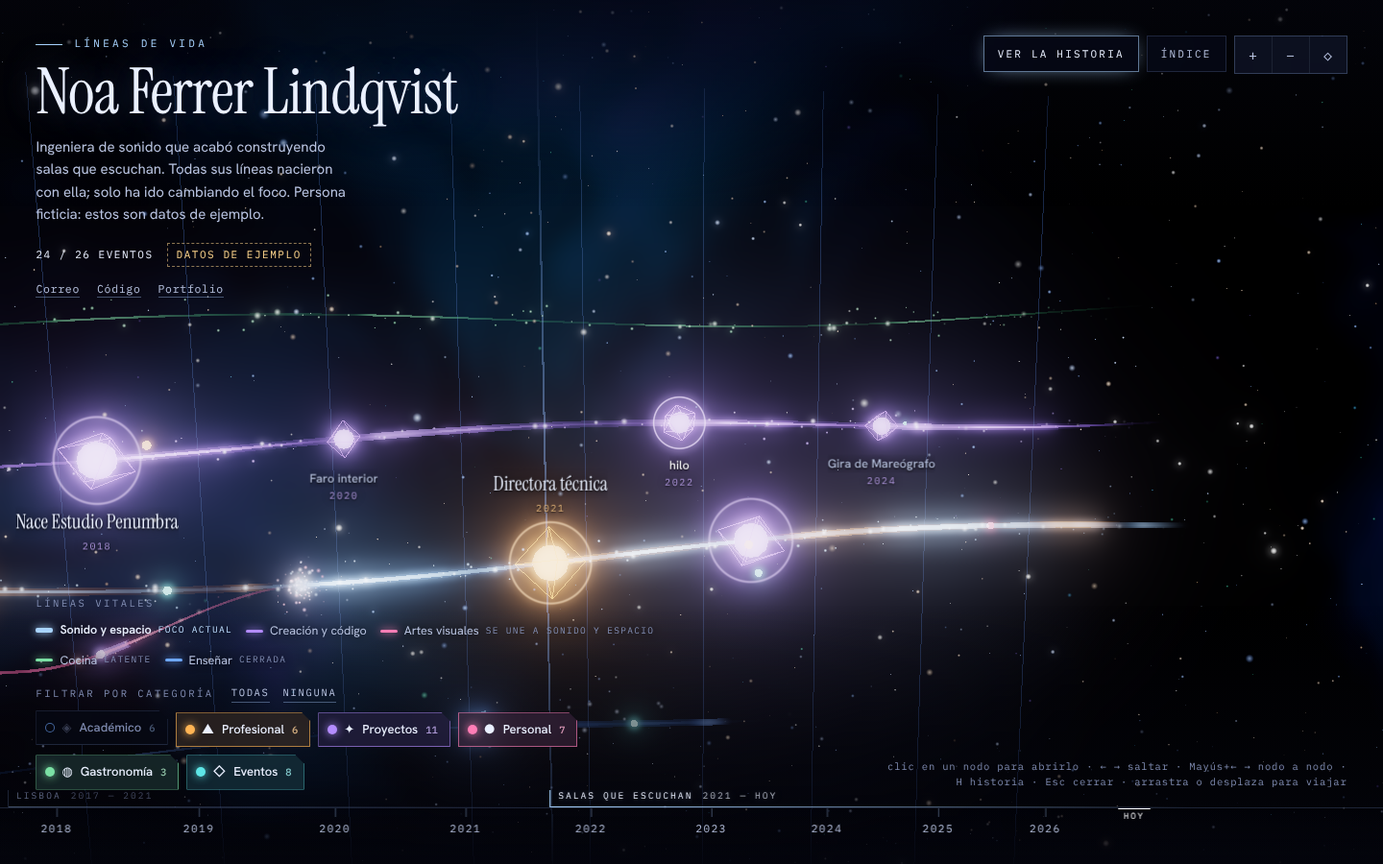
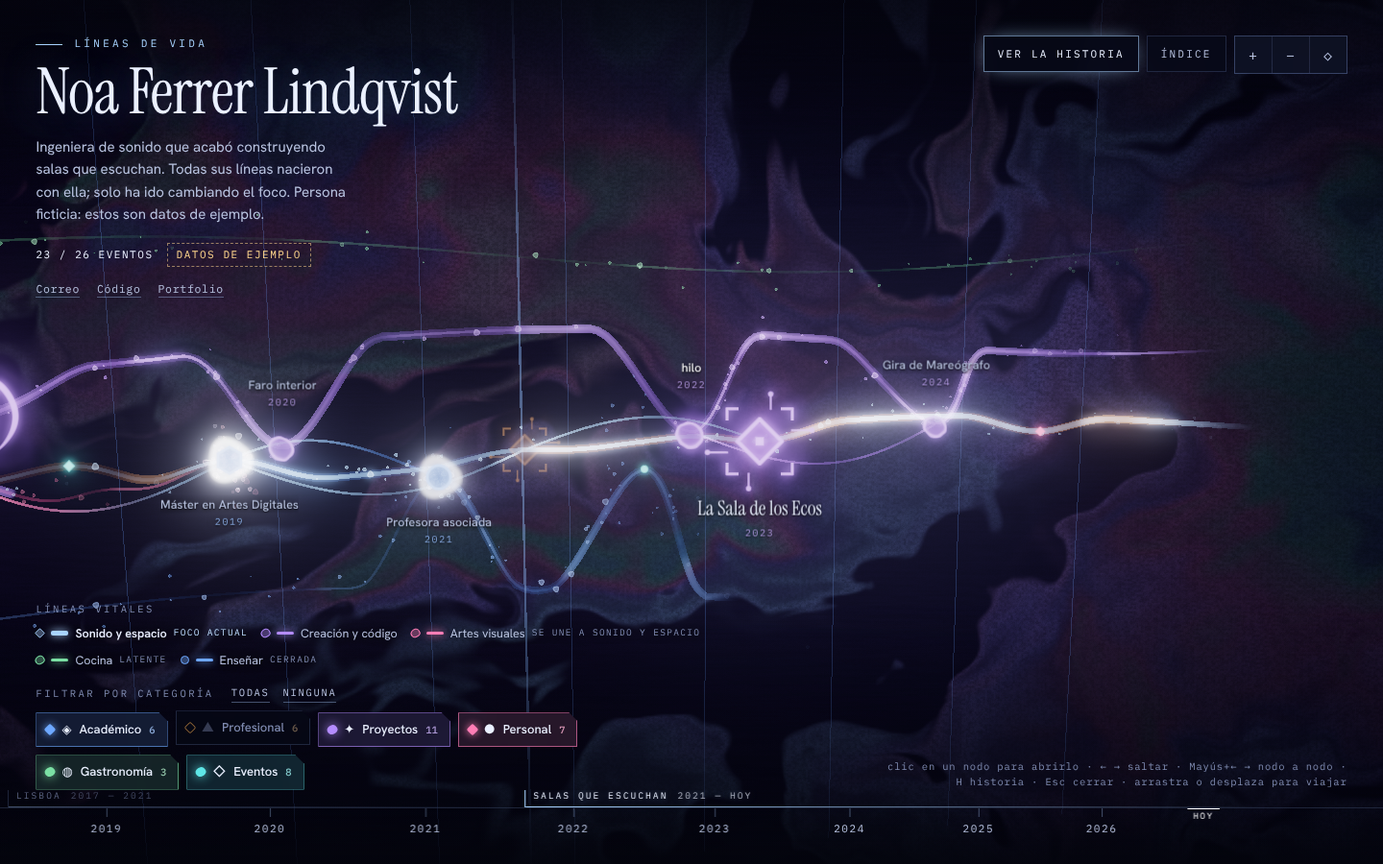
Docs: banda narrativa, ledTo, glifos por peso y forma y fondo de acuarela
- README: esquema (ledTo, branches[].style), reglas, jerarquía de glifos,
  banda narrativa, pop-up con «Viene de…»/«Esto llevó a…», historia por
  hebras causales, efectos de escena y rendimiento sin estrellas.
- CONTRACT: esquema y comportamiento visual nuevos.
- DEV_NOTES: decisiones 23–26.
- Capturas de docs/img con los datos de ejemplo.

Claude-Session: https://claude.ai/code/session_01SH3U5YXDA4fjxU1w7NAu1Y

diff --git a/README.md b/README.md
@@ -25,7 +25,7 @@ Este README es la wiki completa del proyecto: cómo arrancarlo, cómo meter tus 
 
 Una web estática que lee un fichero JSON con los eventos de una vida (estudios, trabajos, proyectos, desvíos) y los dibuja como una línea temporal en 3D: el eje horizontal es el tiempo y cada evento es un nodo luminoso. Los eventos se filtran por categorías definidas en los propios datos, y cada nodo abre un panel con todo el detalle.
 
-No todo pesa igual: los nodos tienen **jerarquía** (mayores, medios y menores, con rótulos que nunca se pisan), la vida se divide en **capítulos** (arcos temporales que se iluminan al recorrerlos) y el botón **Ver la historia** la cuenta de nodo en nodo: la cámara vuela siguiendo las líneas y cada paso trae una frase que lo enlaza con el anterior.
+No todo pesa igual: los nodos tienen **jerarquía** (mayores, medios y menores, con rótulos que nunca se pisan), la vida se divide en **capítulos** (arcos temporales que se iluminan al recorrerlos) y el botón **Ver la historia** la cuenta de nodo en nodo: la cámara vuela por la banda (o sigue la hebra causal cuando un paso llevó al siguiente) y cada paso trae una frase que lo enlaza con el anterior. Todo sobre un fondo de acuarela en movimiento, no un cielo estrellado.
 
 **Concepto: «mis flores nacieron conmigo, solo he cambiado el foco».** La vida no se dibuja como un tronco del que salen «otros yo», sino como **líneas vitales** (el oficio, el arte, la cocina…) que nacen todas en el nacimiento y discurren en paralelo. Lo que cambia con los años es el **foco**: qué línea brilla en cada momento. Dos líneas pueden **fusionarse** (el arte y la tecnología se unen en un máster y desde ahí son una sola), una afición puede seguir **latente** hasta hoy y otra puede apagarse. El modelo clásico de ramas que se bifurcan (`branch` + `branchFrom`) sigue funcionando igual; ver [3.7](#37-líneas-vitales-ramas-y-bifurcaciones).
 
@@ -215,11 +215,12 @@ Raíz del documento:
 | `highlights` | lista de textos no vacíos | No | Sección «Hitos» |
 | `links` | lista de `{ label, url }` | No | Sección «Enlaces». Solo http(s) |
 | `media` | lista de `{ type: "image", url, alt }` | No | Imágenes del pop-up. `url` http(s); `alt` obligatorio (puede ser vacío) |
-| `importance` | `1`, `2` o `3` | No (por defecto `2`) | Jerarquía del nodo (ver 4.1): `3` mayor (grande, halo, anillo y rótulo siempre), `2` medio (rótulo al acercarse), `1` menor (punto sin halo, rótulo solo al señalarlo). ←/→ saltan entre los de importancia ≥ 2 |
+| `importance` | `1`, `2` o `3` | No (por defecto `2`) | Jerarquía del nodo (ver 4.1): `3` mayor (glifo compuesto con aura y rótulo siempre), `2` medio (forma con contorno; rótulo al acercarse), `1` menor (marca pequeña; rótulo solo al señalarlo). ←/→ saltan entre los de importancia ≥ 2 |
 | `branch` | texto kebab-case | No (por defecto la línea central: `meta.mainBranch`, o `"main"`) | Línea (rama) a la que pertenece el evento |
 | `branchFrom` | id de evento | No | Evento **de otra rama** del que nace esta rama (modelo clásico; `branches[].origin` prevalece) |
 | `visibility` | `"public"` o `"private"` | No (por defecto `"public"`) | Los privados se ocultan salvo con `?private=1` |
 | `bridge` | texto no vacío, máx. 160 caracteres | No | Frase puente que enlaza con el evento **anterior del recorrido** (`story.path`). Se muestra arriba del pop-up en el modo historia |
+| `ledTo` | lista de ids de evento | No | Enlaces causales «esto llevó a esto»: eventos **posteriores o de la misma fecha**, de cualquier línea. Se dibujan como una hebra de tinta del nodo origen al destino y aparecen en el pop-up («Esto llevó a…» / «Viene de…») |
 
 #### `branches[]` (opcional)
 
@@ -234,6 +235,7 @@ Describe las líneas vitales. Una línea existe porque algún evento la usa en `
 | `origin` | id de evento | No | Evento donde nace la línea (p. ej. `"nacimiento"`). Prevalece sobre `event.branchFrom`. Las líneas con el mismo `origin` salen del mismo punto y se abren como un haz |
 | `mergeInto` | `{ branch, event }` | No | La línea converge en la línea `branch` a la altura de `event` (que debe pertenecer a `branch`) y termina ahí, con una «costura» de partículas |
 | `until` | `"present"` | No | La línea llega hasta hoy aunque sus eventos hayan terminado (afición latente). Incompatible con `mergeInto` |
+| `style` | `"geometric"`, `"organic"` o `"neutral"` | No | Lenguaje de forma de los nodos de la línea (y de su marca en leyenda y chips): rectilíneo para lo racional, orgánico/abstracto para lo creativo, círculo neutro. Si falta: `tecnologia`/`gestion` → `geometric`; `arte`/`gastronomia`/`rol` → `organic`; el resto → `neutral` |
 | `focus` | lista de `{ start, end?, level? }` | No | Periodos de foco. `start`/`end` con el formato de fechas; `end` admite `"present"` y, si falta, el foco sigue hasta hoy. `level` `1`, `2` o `3` (por defecto `3`) |
 
 #### `arcs[]` (opcional)
@@ -303,6 +305,8 @@ Todas estas las comprueba `LifeDataValidator` (y por tanto `npm run validate:dat
 | `arcs[]` | Ids kebab-case únicos; `title` no vacío; `start` y `end` (fecha o `"present"`) obligatorios y válidos; `end >= start`; sin solapes (cada arco empieza cuando o después de que empiece el periodo `end` del anterior; nada después de un arco con `"present"`) |
 | `story.path` | Lista de ids de eventos existentes, sin repetir y en orden cronológico (por `date.start`) |
 | `bridge` | Opcional; si está, texto no vacío de 160 caracteres como máximo |
+| `ledTo` | Lista de ids existentes, sin el propio evento, sin repetir y con el destino en la misma fecha o después que el origen. `build:public-data` quita los destinos privados (y la lista si se queda vacía) |
+| `branches[].style` | `"geometric"`, `"organic"` o `"neutral"` |
 
 > [!NOTE]
 > `schema/life.schema.json` describe la **forma** del documento y sirve para el autocompletado del editor. Las reglas cruzadas (unicidad, referencias, `end ≥ start`, ciclos, días reales del mes) no son expresables en JSON Schema: la referencia es `npm run validate:data`. El proyecto no incluye ninguna librería que valide contra el schema.
@@ -320,7 +324,10 @@ La forma recomendada de contar una vida: varias líneas que nacen juntas y cambi
 
 Cómo se ve:
 
-- **Carriles.** La central va siempre en el carril del centro (y = 0). Las demás se reparten alrededor con el algoritmo de carriles de siempre (carril libre más cercano, sin cruzar el tronco si se puede evitar).
+- **Banda narrativa.** Todos los **nodos** viven en una banda central estrecha (ligero desfase por carril; si dos coinciden en fecha se apilan con una separación mínima), así que se leen de izquierda a derecha como una sola historia. Los rótulos alternan arriba y abajo de la banda.
+- **Carriles.** Cada línea conserva su carril (la central en y = 0; las demás alrededor, con el algoritmo de siempre), pero solo **entre** sus nodos: sale de la banda, se curva hacia su carril (tejiéndose y cruzándose con otras, más tenue cuanto más lejos) y vuelve a la banda para pasar exactamente por cada uno de sus eventos.
+- **Enlaces causales.** Cada `ledTo` es una hebra de tinta que arquea del nodo origen al destino con un degradado del color de una línea al de la otra; si cambian de línea, un remolino de pigmento marca dónde se unen.
+- **Forma de los nodos.** El peso (`importance`) decide la complejidad del glifo y la línea (`style`) su lenguaje de forma (ver 4.1).
 - **Foco.** El brillo y el bloom del filamento, la densidad, velocidad y brillo de sus partículas y su opacidad dependen de si ese momento cae dentro de un periodo de `focus`: fuera de foco la línea queda a ≈ 0,3; `level` 1, 2 y 3 suben a ≈ 0,55, 0,78 y 1. Las transiciones son suaves a lo largo de la curva (rampas de ~0,8 años centradas en cada borde), no saltos. Una línea sin `focus` brilla a pleno, como antes. La central además engorda un poco al acercarse a hoy.
 - **Fusión.** Con `mergeInto`, la línea se curva en sus últimos ~2 años hasta unirse a la línea destino en la posición del evento indicado y termina ahí, con una «costura»: un destello que late y un remolino de motas con los colores de las dos líneas.
 - **Final.** Una línea con `until: "present"` llega hasta hoy (atenuada según su foco). Sin `until` ni `mergeInto`, una línea cuyos eventos han terminado se disuelve en polvo como las ramas clásicas.
@@ -462,11 +469,13 @@ La selección tiene dos niveles: las flechas **enfocan** un evento (vuelo de cá
 
 | Nivel | Nodo | Rótulo |
 | --- | --- | --- |
-| `3` mayor | Grande, con halo amplio, jaula y anillo siempre visibles | Siempre, en tipografía display |
-| `2` medio | Mediano, halo suave, sin anillo en reposo | Al acercarse (cámara a ≤ 72 unidades) y si cabe |
-| `1` menor | Punto pequeño sin halo, jaula ni satélites | Solo al pasar el ratón, al enfocarlo con el teclado o al seleccionarlo (y entonces crece y se enciende) |
+| `3` mayor | Glifo compuesto grande: forma + anillo/marco exterior + marca interior + aura de pigmento | Siempre, en tipografía display |
+| `2` medio | La forma sola, con contorno y relleno suave, sin aura | Al acercarse (cámara a ≤ 72 unidades) y si cabe |
+| `1` menor | Marca pequeña (punto, rombo o gota), sin aura | Solo al pasar el ratón, al enfocarlo con el teclado o al seleccionarlo (y entonces crece y su pigmento se expande) |
 
-Los rótulos se reparten por prioridad (fijado > mayor > medio > menor; a igualdad, el que ya estaba visible) y **nunca se pisan entre sí** ni tapan un nodo medio o mayor: si no caben debajo, encima o un poco más abajo, se ocultan los de menor prioridad. Tampoco invaden la cabecera, los filtros, la regla, el pop-up ni el índice.
+Los tres niveles se distinguen a primera vista incluso en escala de grises (tamaño y estructura). La **forma** depende de la línea (`branches[].style`): las líneas racionales usan geometría rectilínea (rombo, hexágono, marco con esquinas y trazos de circuito en el glifo mayor); las creativas, formas orgánicas (manchas de acuarela con borde acumulado, pétalo/gota, trazo de pincel abierto y espiral); las neutras, círculo y anillos. Los glifos son SDF en el shader: nítidos a cualquier zoom. Chips y leyenda repiten el mismo lenguaje (rombo / mancha / círculo).
+
+Los rótulos se reparten por prioridad (fijado > mayor > medio > menor; a igualdad, el que ya estaba visible) y **nunca se pisan entre sí** ni tapan un nodo medio o mayor: alternan arriba y abajo de la banda de nodos (por orden cronológico); si no caben en su lado se prueba el otro y después un escalón más lejos; si no, se ocultan los de menor prioridad. Tampoco invaden la cabecera, los filtros, la regla, el pop-up ni el índice.
 
 **Arcos temporales** (`arcs`). Cada capítulo tiene un separador vertical etéreo en su inicio y, cuando la cámara está dentro, un velo tenue que lo ilumina. Encima de la regla de años, una franja muestra el título y los años de cada capítulo alineados con la escena; el actual se ilumina (en tramos estrechos se omiten los años o el título).
 
@@ -474,7 +483,7 @@ Los rótulos se reparten por prioridad (fijado > mayor > medio > menor; a iguald
 
 El botón **Ver la historia** (o la tecla `H`) recorre `story.path` de nodo en nodo:
 
-- La cámara **vuela siguiendo las líneas**: avanza por el tiempo pegada a la línea del evento de salida y pasa con suavidad a la del de llegada, alejándose un poco a mitad de camino. Con `prefers-reduced-motion` (o `?reduced-motion=1`) son cortes.
+- La cámara **vuela por la banda de nodos** de un paso al siguiente, alejándose un poco a mitad de camino; si el paso siguiente es consecuencia del actual (`ledTo`), **sigue la hebra causal** que los une. Con `prefers-reduced-motion` (o `?reduced-motion=1`) son cortes.
 - El pop-up se abre en cada paso con, arriba, el progreso (`3 / 22`), el capítulo actual y la **frase puente** (`bridge`) del evento.
 - `←` / `→`, y los botones **Anterior** / **Siguiente** del pop-up, siguen el recorrido, no la cronología.
 - Al entrar en un capítulo nuevo aparece una **tarjeta de capítulo** (número, título, años, subtítulo y resumen) que se pasa con **Continuar** o con el siguiente paso.
@@ -500,7 +509,7 @@ Fuera del modo historia, el pop-up de un evento que forma parte del recorrido of
 
 ### 4.3 Pop-up de detalle
 
-Muestra, en este orden y solo si hay dato: (en modo historia) progreso, capítulo y frase puente; etiquetas de categoría, título, subtítulo, insignias («Capítulo: …» si hay `arcs`, «En curso», «Privado», «Línea: …» si la línea está declarada en `branches`, o si no «Rama que nace de «…»»), cuándo / dónde / con quién, resumen, descripción en párrafos, imágenes, hitos, habilidades y enlaces. Abajo tiene los botones **Anterior** y **Siguiente**.
+Muestra, en este orden y solo si hay dato: (en modo historia) progreso, capítulo y frase puente; etiquetas de categoría, título, subtítulo, insignias («Capítulo: …» si hay `arcs`, «En curso», «Privado», «Línea: …» si la línea está declarada en `branches`, o si no «Rama que nace de «…»»), cuándo / dónde / con quién, resumen, descripción en párrafos, **«Viene de…»** (eventos cuyo `ledTo` apunta a este) y **«Esto llevó a…»** (sus `ledTo` visibles), como botones que abren ese evento, imágenes, hitos, habilidades y enlaces. Abajo tiene los botones **Anterior** y **Siguiente**.
 
 - En pantallas de 900 px o más de ancho es un panel lateral y la cámara desplaza el encuadre para que el nodo no quede tapado.
 - En pantallas de 720 px o menos ocupa toda la pantalla.
@@ -570,7 +579,7 @@ src/
                                YearRuler, ArcStrip, StoryControls, KeyboardShortcuts, LiveAnnouncer, ViewControls,
                                labelLayout, dom, strings
     three/                     ThreeTimelineView, SceneBuilder, SceneEffect, NodeMesh, BranchCurve, ParticleFlow,
-                               MergeSeam, ArcBands, Starfield, Nebula, YearMarkers, SelectionPulse, CameraRig, PointerInput, RenderLoop,
+                               MergeSeam, ArcBands, WatercolorWash/WatercolorPass, YearMarkers, SelectionPulse, CameraRig, PointerInput, RenderLoop,
                                PostFX, webgl, math, textures, types
   styles/main.css
 build/personalDataPlugin.ts    plugin de Vite que sirve data/life.json en dev y preview
@@ -992,8 +1001,7 @@ classDiagram
         +reducedMotion boolean
     }
 
-    class Nebula
-    class Starfield
+    class WatercolorWash
     class YearMarkers
     class BranchCurve
     class ParticleFlow
@@ -1001,8 +1009,7 @@ classDiagram
         +trigger(position, color, radius) void
     }
 
-    SceneEffect <|.. Nebula
-    SceneEffect <|.. Starfield
+    SceneEffect <|.. WatercolorWash
     SceneEffect <|.. YearMarkers
     SceneEffect <|.. BranchCurve
     SceneEffect <|.. ParticleFlow
@@ -1114,11 +1121,10 @@ Qué hace cada efecto:
 
 | Efecto | Qué dibuja |
 | --- | --- |
-| `Nebula` | Fondo procedural de nebulosa |
-| `Starfield` | Tres capas de puntos: estrellas lejanas, estrellas medias y polvo cercano con deriva |
+| `WatercolorWash` | Fondo de acuarela en movimiento: lavados de pigmento (domain warping con fbm) con borde acumulado, sangrados, granulación y papel. Lo dibuja `WatercolorPass` (postprocesado) a media resolución antes de la escena; se tiñe hacia la línea en foco y se desplaza un poco con la cámara |
 | `YearMarkers` | Meridianos verticales de cada año |
-| `BranchCurve` | El tronco, cada rama y los tramos de duración de los eventos con fecha de fin |
-| `ParticleFlow` | Motas de energía que recorren las ramas hacia el futuro, en un único `Points` |
+| `BranchCurve` | El tronco, cada rama, los tramos de duración y las hebras causales (`ledTo`, con degradado de color) |
+| `ParticleFlow` | Motas de pigmento que recorren las ramas hacia el futuro, en un único `Points` |
 | `SelectionPulse` | Anillo que se expande al seleccionar un nodo |
 
 Cada fotograma, `ThreeTimelineView.frame` hace siempre lo mismo: actualiza la cámara, llama a `update(frame)` en todos los efectos y nodos, proyecta nodos y años a coordenadas de pantalla, resuelve el hover, avisa a los `ProjectionListener` y renderiza con el postprocesado (bloom). `NodeMesh` no es un `SceneEffect` porque además recibe estado de la aplicación (visible, enfocado, bajo el puntero), pero se actualiza con el mismo `FrameContext`.
@@ -1637,7 +1643,8 @@ window.__timelineDebug.story()      // { active, step }: modo historia y progres
 | --- | --- |
 | `pixelRatio` limitado | Máximo 2, aunque la pantalla tenga más densidad |
 | Pausa con la pestaña oculta | `RenderLoop` cancela el fotograma pendiente al ocultarse y acota el salto de tiempo al volver (0,1 s) |
-| Partículas en un solo objeto | `ParticleFlow` es un único `Points`; el campo de estrellas, tres |
+| Partículas en un solo objeto | `ParticleFlow` es un único `Points` |
+| Fondo a media resolución | El lavado de acuarela se calcula a 1/2 de resolución y se escala; la granulación y el papel se añaden a resolución completa con ruido barato |
 | Presupuesto de partículas | 100 % en escritorio, 60 % en pantallas de 720 px o menos, 30 % con movimiento reducido. Se decide al cargar la página |
 | Texturas procedurales | Sin descargas de imágenes para la escena |
 | Sin antialias del renderer | El bloom ya suaviza; se ahorra el coste del multisampling |
@@ -1645,7 +1652,7 @@ window.__timelineDebug.story()      // { active, step }: modo historia y progres
 | Red | Assets con hash y caché inmutable de un año, gzip, fuentes autoalojadas, una o dos peticiones de datos |
 | Liberación de recursos | Cada efecto y nodo tiene `dispose()`; al volver a pintar se libera la escena anterior |
 
-El coste principal por fotograma son el bloom y la nebulosa procedural a pantalla completa. No hay mediciones en GPU real (ver la sección siguiente).
+El coste principal por fotograma son el bloom y el lavado de acuarela (a media resolución). No hay mediciones en GPU real (ver la sección siguiente).
 
 ---
 
@@ -1674,7 +1681,7 @@ Tomadas de `docs/DEV_NOTES.md` y del propio código. Para el estado de las compr
 - [x] Workflow de CI (`lint`, `typecheck`, `validate:data`, `test:coverage`, `build`, `docker build` + prueba de humo).
 - [ ] Enlace profundo a eventos (`?event=id`), reutilizando el patrón de `UrlFilterStateStore`.
 - [ ] Internacionalización de la interfaz (ver [6.5](#65-internacionalización-futura)).
-- [ ] Medir el rendimiento en GPU real y, si hace falta, ofrecer un nivel de calidad reducido (bloom, nebulosa).
+- [ ] Medir el rendimiento en GPU real y, si hace falta, ofrecer un nivel de calidad reducido (bloom, acuarela).
 - [ ] Pruebas en Firefox, Safari y móviles reales.
 - [ ] Revisar el encuadre por defecto con muchas ramas simultáneas.
 - [ ] Medir la anchura real de los rótulos.

diff --git a/docs/CONTRACT.md b/docs/CONTRACT.md
@@ -8,7 +8,10 @@ paralelo; lo que cambia con el tiempo es el **foco** (qué línea brilla), y dos
 **fusionarse**. El modelo antiguo (cada bifurcación abre una rama, `branch` + `branchFrom`) sigue
 siendo válido.
 Diseño visual ORIGINAL (no copiar arte, logos, nombres ni UI de ningún videojuego):
-estética sci-fi etérea, partículas, bloom, niebla, energía fluyendo por las ramas.
+desde el 11/11/2026, **acuarela en movimiento** (nada espacial): papel índigo/ciruela muy oscuro con
+lavados de pigmento de los colores de las líneas, líneas como tinta luminosa, motas de pigmento,
+bloom contenido. Los nodos se leen como una sola historia en una **banda central**; las líneas entran
+y salen de ella como hebras, y las hebras causales (`ledTo`) unen lo que llevó a qué.
 
 ## Stack
 
@@ -73,6 +76,7 @@ interface BranchInfo {
   mergeInto?: { branch: string; event: string }; // converge en `branch` en la posición de `event` (de `branch`) y termina
   until?: "present";          // sigue viva hasta hoy aunque su último evento haya terminado
   focus?: { start: string; end?: string | "present"; level?: 1 | 2 | 3 }[]; // sin end = hasta hoy; level por defecto 3
+  style?: "geometric" | "organic" | "neutral"; // forma de sus nodos; por defecto según id (ver abajo)
 }
 interface Category {
   id: string;                 // kebab-case, único
@@ -101,6 +105,7 @@ interface LifeEvent {
   branchFrom?: string;        // id del evento del que nace esta rama (bifurcación)
   visibility?: "public" | "private"; // "private" se oculta salvo ?private=1
   bridge?: string;            // ≤ 160: frase que conecta con el evento anterior del recorrido
+  ledTo?: string[];           // enlaces causales: ids de eventos posteriores o de la misma fecha (cualquier línea)
 }
 ```
 
@@ -110,12 +115,26 @@ por algún evento (o `mainBranch`); `origin` y `mergeInto.event` existen; `merge
 distinta y contiene `mergeInto.event`; sin ciclos de fusión ni de nacimiento; `focus` con fechas válidas,
 `end >= start` y `level` 1–3; `arcs` con ids únicos, fechas válidas, `end >= start` y sin solapes;
 `story.path` con ids existentes, sin repetir y en orden cronológico; `bridge` no vacío y ≤ 160;
+`ledTo` con ids existentes, sin el propio evento, sin duplicados y con destino no anterior al origen;
+`branches[].style` ∈ geometric | organic | neutral;
 `mainBranch` con eventos (obligatorio si hay `branches` y nadie usa
 `"main"`); `until` solo `"present"` y nunca con `mergeInto`; la central no admite `origin` ni `mergeInto`.
 Errores acumulados con ruta (`events[3].date.start: ...`, `branches[1].mergeInto.event: ...`), no solo el primero.
 
-Jerarquía, arcos e historia: `importance` 3 = nodo grande con halo, anillo y rótulo siempre; 2 =
-mediano, rótulo al acercarse si cabe; 1 = punto sin halo ni rótulo salvo hover/foco/selección. Los
+Jerarquía, arcos e historia: `importance` 3 = glifo compuesto grande (forma + anillo/marco exterior +
+marca interior + aura de pigmento) y rótulo siempre; 2 = forma sola con contorno y relleno suave,
+rótulo al acercarse si cabe; 1 = marca pequeña sin aura ni rótulo salvo hover/foco/selección (se
+distinguen también en escala de grises). Forma por línea (`style`, por defecto `tecnologia`/`gestion` →
+geometric; `arte`/`gastronomia`/`rol` → organic; resto → neutral): geometric = rombo, hexágono, marco
+con esquinas y trazos de circuito; organic = mancha de acuarela, pétalo/gota, pincel, espiral; neutral =
+círculo y anillos. Glifos SDF en shader; hover/selección expanden el pigmento. Chips y leyenda usan
+el mismo lenguaje.
+Banda narrativa: todos los nodos en una banda central (|y| pequeño, desfase por carril, apilado si
+coinciden en fecha); las líneas salen de la banda entre nodos hacia su carril y vuelven a cada uno de
+sus eventos. Rótulos alternando arriba/abajo de la banda. `ledTo` = hebra de tinta del nodo origen al
+destino (degradado de color entre las dos líneas; remolino de pigmento si cambian de línea); pop-up con
+«Viene de…» y «Esto llevó a…»; en la historia, si el paso siguiente es consecuencia del actual, la
+cámara sigue la hebra. Los
 rótulos se colocan por prioridad (fijado > mayor > medio > menor) y nunca se solapan. Los arcos son
 separadores verticales etéreos + velo del arco activo en la escena, franja de capítulos sobre la regla
 (se ilumina el de la cámara) y grupos en el índice. Modo historia («Ver la historia», tecla H): recorre
@@ -123,9 +142,9 @@ separadores verticales etéreos + velo del arco activo en la escena, franja de c
 pop-up con progreso «3 / 22», arco y `bridge`, Anterior/Siguiente y ←/→ por el recorrido, tarjeta de
 capítulo al entrar en un arco nuevo; sale con Esc o botón. Sin `story.path` no hay botón. En modo
 libre, ←/→ saltan a importancia ≥ 2 y Mayús+←/→ nodo a nodo. `build:public-data` quita del recorrido
-los ids privados y conserva los arcos.
+los ids privados y conserva los arcos; también quita de `ledTo` los destinos privados.
 
-Comportamiento visual de las líneas: la central siempre en y = 0, la más brillante y algo más gruesa
+Comportamiento visual de las líneas: la central siempre en el carril y = 0, la más brillante y algo más gruesa
 hoy; las que comparten `origin` salen del mismo punto como un haz; la intensidad (brillo/bloom, densidad
 y velocidad de partículas, opacidad) de cada tramo sale de `focusIntensityAt(line, fecha)` (dominio,
 pura: ≈ 0,3 fuera de foco, 0,55/0,78/1 según `level`, rampas suaves); `mergeInto` curva la línea hasta
@@ -147,7 +166,7 @@ src/
     TimelineController.ts   # orquesta casos de uso ↔ vista
   infrastructure/
     http/            # HttpJsonTimelineRepository (fetch + fallback)
-    three/           # ThreeTimelineView + SceneBuilder, NodeMesh, BranchCurve, ParticleFlow, Starfield, PostFX, CameraRig
+    three/           # ThreeTimelineView + SceneBuilder, NodeMesh (glifos), BranchCurve, ParticleFlow, Watercolor, PostFX, CameraRig
     dom/             # FilterBar, EventPopup, Hud, Tooltip
     storage/         # UrlFilterStateStore (filtros en query string)
   main.ts            # composition root (única pieza que conoce todo)
@@ -155,7 +174,7 @@ src/
 
 - Dependencias solo hacia dentro: infrastructure → application → domain. Dominio y aplicación no importan `three` ni tocan `document`/`window`/`fetch`.
 - SOLID: una responsabilidad por clase, puertos pequeños, inyección por constructor, extensible sin modificar (nuevas categorías = datos; nuevos efectos = nuevas clases que implementan una interfaz `SceneEffect`).
-- `TimelineLayout` es puro y determinista: de `Timeline` → `{ nodes: {eventId, position{x,y,z}, branch}, branches: {id, points[], focus[], main, merge} }`. El eje X es el tiempo; cada rama se desvía en Y/Z desde su origen (`origin` o `branchFrom`).
+- `TimelineLayout` es puro y determinista: de `Timeline` → `{ nodes: {eventId, position{x,y,z}, branch}, branches: {id, points[], focus[], main, merge}, links: {from, to, fromBranch, toBranch, points[]}, band: {minY, maxY} }`. El eje X es el tiempo; los nodos van a la banda central y cada rama se desvía en Y/Z hacia su carril entre ellos (nace en `origin` o `branchFrom`).
 
 ## UX obligatoria
 
@@ -164,7 +183,7 @@ src/
 - Nodo: hover → tooltip (título + fechas); clic/Enter → **pop-up** con todo el detalle del evento; Esc o clic fuera lo cierra; la cámara vuela al nodo.
 - **Filtros por categoría** (chips con el color de cada una, multi-selección, "todas/ninguna"); los nodos filtrados se atenúan/desvanecen con transición, no desaparecen en seco. Estado reflejado en la URL.
 - Marcas de año sobre el eje. HUD con nombre, tagline y contador de eventos visibles.
-- VFX: bloom, partículas fluyendo por las ramas, campo de polvo/estrellas con parallax, halo pulsante en nodos, niebla de profundidad, pulso al seleccionar.
+- VFX: fondo de acuarela en movimiento con parallax leve (estático con movimiento reducido), bloom contenido, motas de pigmento fluyendo por las ramas, aura de pigmento en los nodos mayores, niebla del color del papel, pulso al seleccionar.
 - Accesibilidad: lista de eventos navegable por teclado/lector de pantalla (fallback DOM), `prefers-reduced-motion` reduce partículas y animación, foco gestionado en el pop-up (role="dialog" no modal: es un panel lateral y el resto sigue operable, así que no lleva `aria-modal` ni atrapa el foco; ver DOC_DISCREPANCIES A6).
 - Responsive (móvil: pop-up a pantalla completa, gestos táctiles). Fallback legible si no hay WebGL.
 - Rendimiento: partículas con `Points`/instancing, pixelRatio limitado a 2, pausar render con la pestaña oculta.

diff --git a/docs/DEV_NOTES.md b/docs/DEV_NOTES.md
@@ -185,6 +185,52 @@ real es `webgl.ts` y `PostFX.ts`.
     siguiente visible con importancia ≥ 2 y, si no queda ninguno, cae al vecino; `all` (Mayús, y los
     botones del pop-up fuera de la historia) va nodo a nodo como antes.
 
+23. **Banda narrativa** (11/11/2026, feedback: «difícil de seguir la historia saltando entre tantas
+    líneas»). `TimelineLayout.assignBand`: cada nodo va a `y = clamp(carril × 0,42, ±1,5)` y, si otro
+    nodo ya colocado está a menos de `stackDx` (1,4) en X y `stackGap` (1,25) en Y, se apila en el
+    hueco libre más cercano alternando lado (empezando por el de su carril). Z = 0. La línea
+    (`pointOnBranch`) es la curva de su carril (`pointOnLane`, el algoritmo de siempre) mezclada
+    con la «recta de la banda» entre sus dos nodos vecinos: `out = smoothstep((x−a)/pinch) ×
+    smoothstep((b−x)/pinch)` con `pinchX` 3,2. Así pasa exactamente por cada nodo y, cuanto más
+    separados estén, más se aleja hacia su carril. Antes del primer nodo parte del origen; tras el
+    último sale de la banda (o, si se fusiona, vuelve a ella en el nodo destino). Se compactaron los
+    carriles (`laneSpacing` 3,6, `minLaneSpacing` 1,7, `maxLaneSpread` 6,5) y la ondulación sube a
+    0,7. `round` normaliza −0 a 0. `SceneBuilder.bandFade` atenúa hasta un 45 % las líneas lejos de
+    la banda. La apertura de cámara encuadra la banda ± 4,5 (las hebras pueden perderse por arriba o
+    abajo). Rótulos: `labelSlots` alterna arriba/abajo por orden cronológico.
+24. **`ledTo` (enlaces causales).** Dominio: `LifeEvent.ledTo` (sin duplicados) y
+    `Timeline.consequencesOf / causesOf / causalLinks`, solo con eventos visibles (un destino
+    privado oculto desaparece sin error). Validador: lista de ids existentes, no a sí mismo, sin
+    repetir, destino con `start` ≥ el del origen (misma fecha permitida). `build:public-data` quita
+    los destinos privados y borra la lista si queda vacía. Layout: `links[]` con una hebra que arquea
+    (±0,7…2,4 en Y alternando signo, +0,8 en Z para ir por delante de las líneas) del nodo origen al
+    destino. Escena: `BranchCurve` con `colorEnd` (degradado) y, si cambian de línea, un
+    `MergeSeam` sin destello central (`core: 0`) como remolino. Pop-up: «Viene de…» y «Esto llevó
+    a…» como botones (`onEventActivated`). Historia: si el paso siguiente es destino de un `ledTo`
+    del actual, `CameraRig.flyAlong(routeAlong(link.points))`; si no, ruta recta por la banda
+    (`storyRoute` sin líneas: seguir líneas que salen de la banda mareaba).
+25. **Glifos por peso y forma** (`glyphShader.ts`, `NodeMesh`). Un cuadro por nodo que mira a la
+    cámara con un fragment shader SDF (`fwidth` para el antialias: nítido a cualquier zoom); sustituye
+    núcleo, jaula, halo, anillo y satélites. `uTier` (1/2/3) y `uStyle` (0 geometric, 1 organic, 2
+    neutral). Peso 3 lleva aura de pigmento (ruido, se apaga antes del borde del cuadro); hover y
+    foco suben `uAttention`, que la expande en todos. Se renderizan después de las líneas
+    (`renderOrder` 5) con mezcla normal para que el relleno las tape. `BranchInfo.style` opcional;
+    por defecto `defaultLineStyle(id)`. Los chips usan el estilo dominante de la categoría
+    (`dominantStyles`: la línea con más eventos de esa categoría). Las categorías secundarias ya no
+    se dibujan como satélites (el campo `secondaryColors` queda opcional y sin uso visual).
+26. **Fondo de acuarela** (`Watercolor.ts`). Sustituye `Starfield`, `Nebula` y la textura de
+    resplandor. `WatercolorPass` es el primer pase del compositor: dibuja `WatercolorWash` (domain
+    warping con fbm en 3 niveles, borde acumulado como banda estrecha alrededor del umbral del
+    lavado, segundo sangrado, paleta = colores de las líneas interpolados por un campo de ruido) en
+    un render target a 1/2 de resolución y lo compone a pantalla completa añadiendo granulación
+    (solo donde hay pigmento, densidad en alfa) y fibras de papel. El `RenderPass` va con
+    `clear = false` y `clearDepth = true`; `scene.background = null`. Tinte: la línea con más foco en
+    la X de la cámara (`focusAt`, la central gana empates), con transición lenta. Parallax 0,0035 por
+    unidad de mundo. Movimiento reducido: tiempo congelado y tinte inmediato. Papel `#140e26`, que
+    es también el color de la niebla. Bloom `strength` 0,42 / `radius` 0,48 / `threshold` 0,3 y golpe
+    de selección 0,45 / 0,25: tinta luminosa, no neón. Las motas de `ParticleFlow` son gotas de
+    pigmento del color de su línea (menos densidad, menos blanco).
+
 ## Comprobación visual automatizada
 
 `scripts/ui-check.mjs` abre la web en Chrome headless (WebGL por software) y recorre: escena,
@@ -228,7 +274,7 @@ Bloques del encargo (para reanudar si se corta la sesión):
 | --- | --- |
 | 1. Dominio + aplicación + carga de datos + escena three | Hecho. Compila y se ve. |
 | 2. Pop-up y filtros | Hecho (foco, Esc, clic fuera, chips, URL). Pop-up no modal desde el 11/11. |
-| 3. VFX y pulido | Hecho (bloom, partículas, estrellas, nebulosa, halos, niebla, pulso, rótulos, ramas cerradas que se disuelven en partículas). |
+| 3. VFX y pulido | Hecho (bloom, partículas, halos, niebla, pulso, rótulos, ramas cerradas que se disuelven en partículas). Desde el 11/11 el fondo es acuarela (decisión 26). |
 | 4. Docker | Hecho: `docker build` + prueba de humo en la CI (`.github/workflows/ci.yml`). En este entorno no se puede construir (registros bloqueados). |
 | 5. ui-check y capturas | Hecho: `scripts/ui-check.mjs` en verde con datos de ejemplo y con datos reales. |
 | 6. Tests (agente 3) | Hecho: ver `docs/QA_REPORT.md`. |
@@ -244,6 +290,10 @@ Bloques del encargo (para reanudar si se corta la sesión):
   `Ctrl`+`+` no hace zoom en la escena; el pop-up recibe el foco al abrir y no lo roba al cerrar si
   el usuario ya lo movió a un chip.
 - CI de GitHub en verde (jobs `quality` y `docker`); `main` solo recibe cambios por PR desde `develop`.
+
+Pasada de acuarela (11/11/2026, rama `feature/acuarela`): banda narrativa, `ledTo`, glifos por peso y
+forma y fondo de acuarela (decisiones 23–26). Cadena de calidad en verde; `ui-check` «Todo correcto»
+con datos reales y de ejemplo.
 
 Pasada de layout (11/11/2026, rama `feature/layout-carriles`): carriles compactos y encuadre con
 franjas reservadas (decisiones 13 y 14). Cadena de calidad en verde; capturas revisadas con datos
